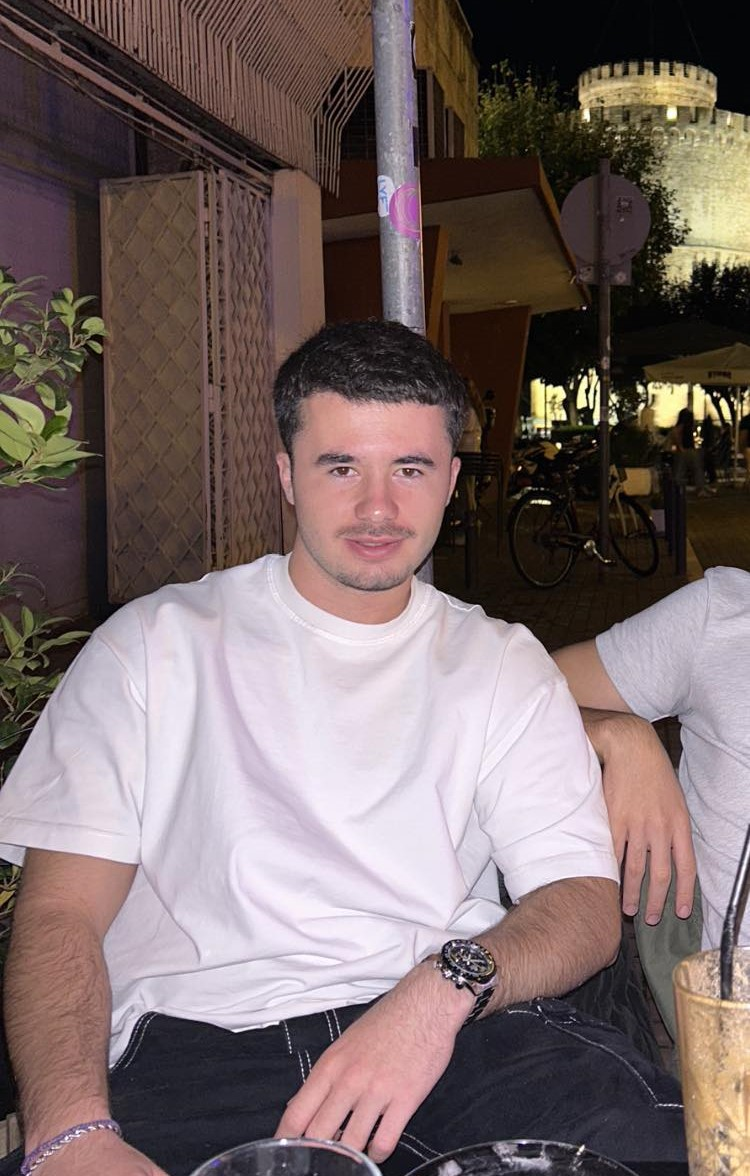
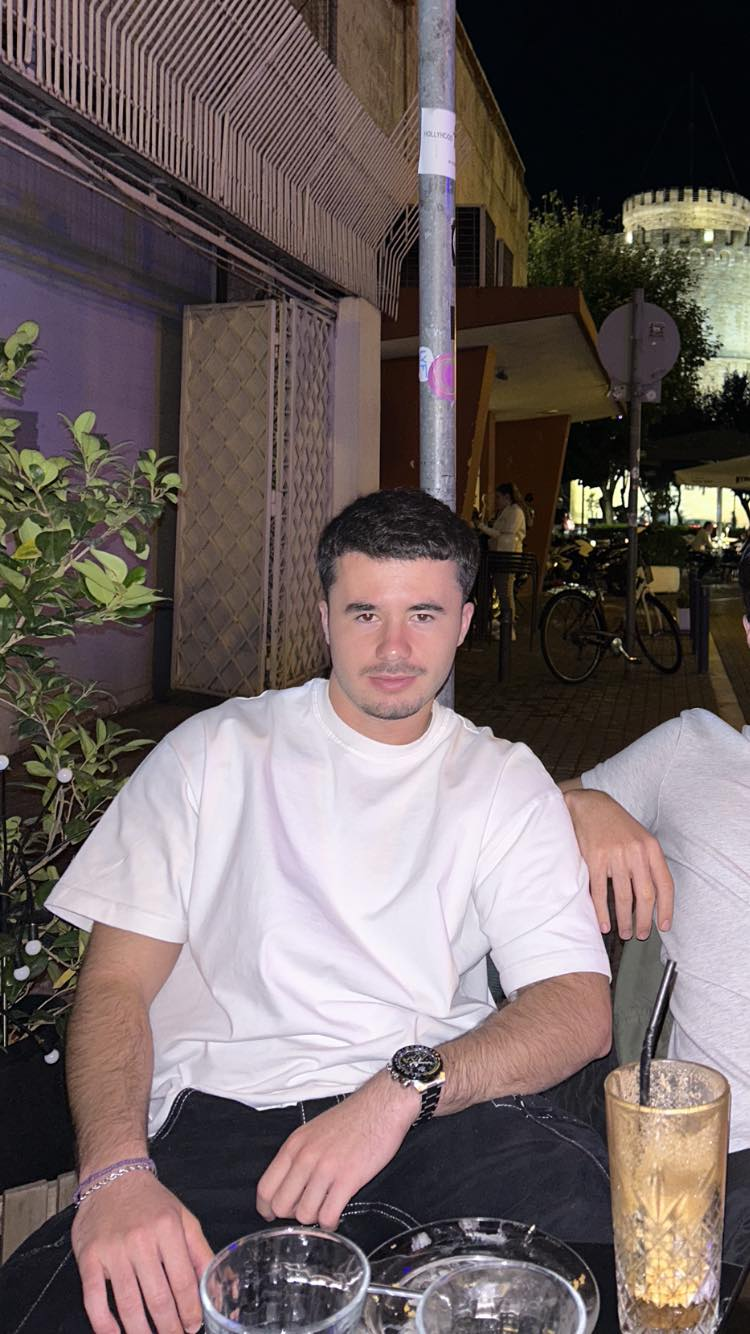
Changed photo profile

diff --git a/src/app/Sections/aboutSection/about.component.html b/src/app/Sections/aboutSection/about.component.html
@@ -3,7 +3,7 @@
     <div class="row">
 
         <div class="col-lg-4 photoSection">
-            <img src="assets/images/photoProfile3.jpg" href="My profile photo" class="photoImg">
+            <img src="assets/images/photoProfile3.png" href="My profile photo" class="photoImg">
         </div>
 
         <div class="col-md-8 container">
